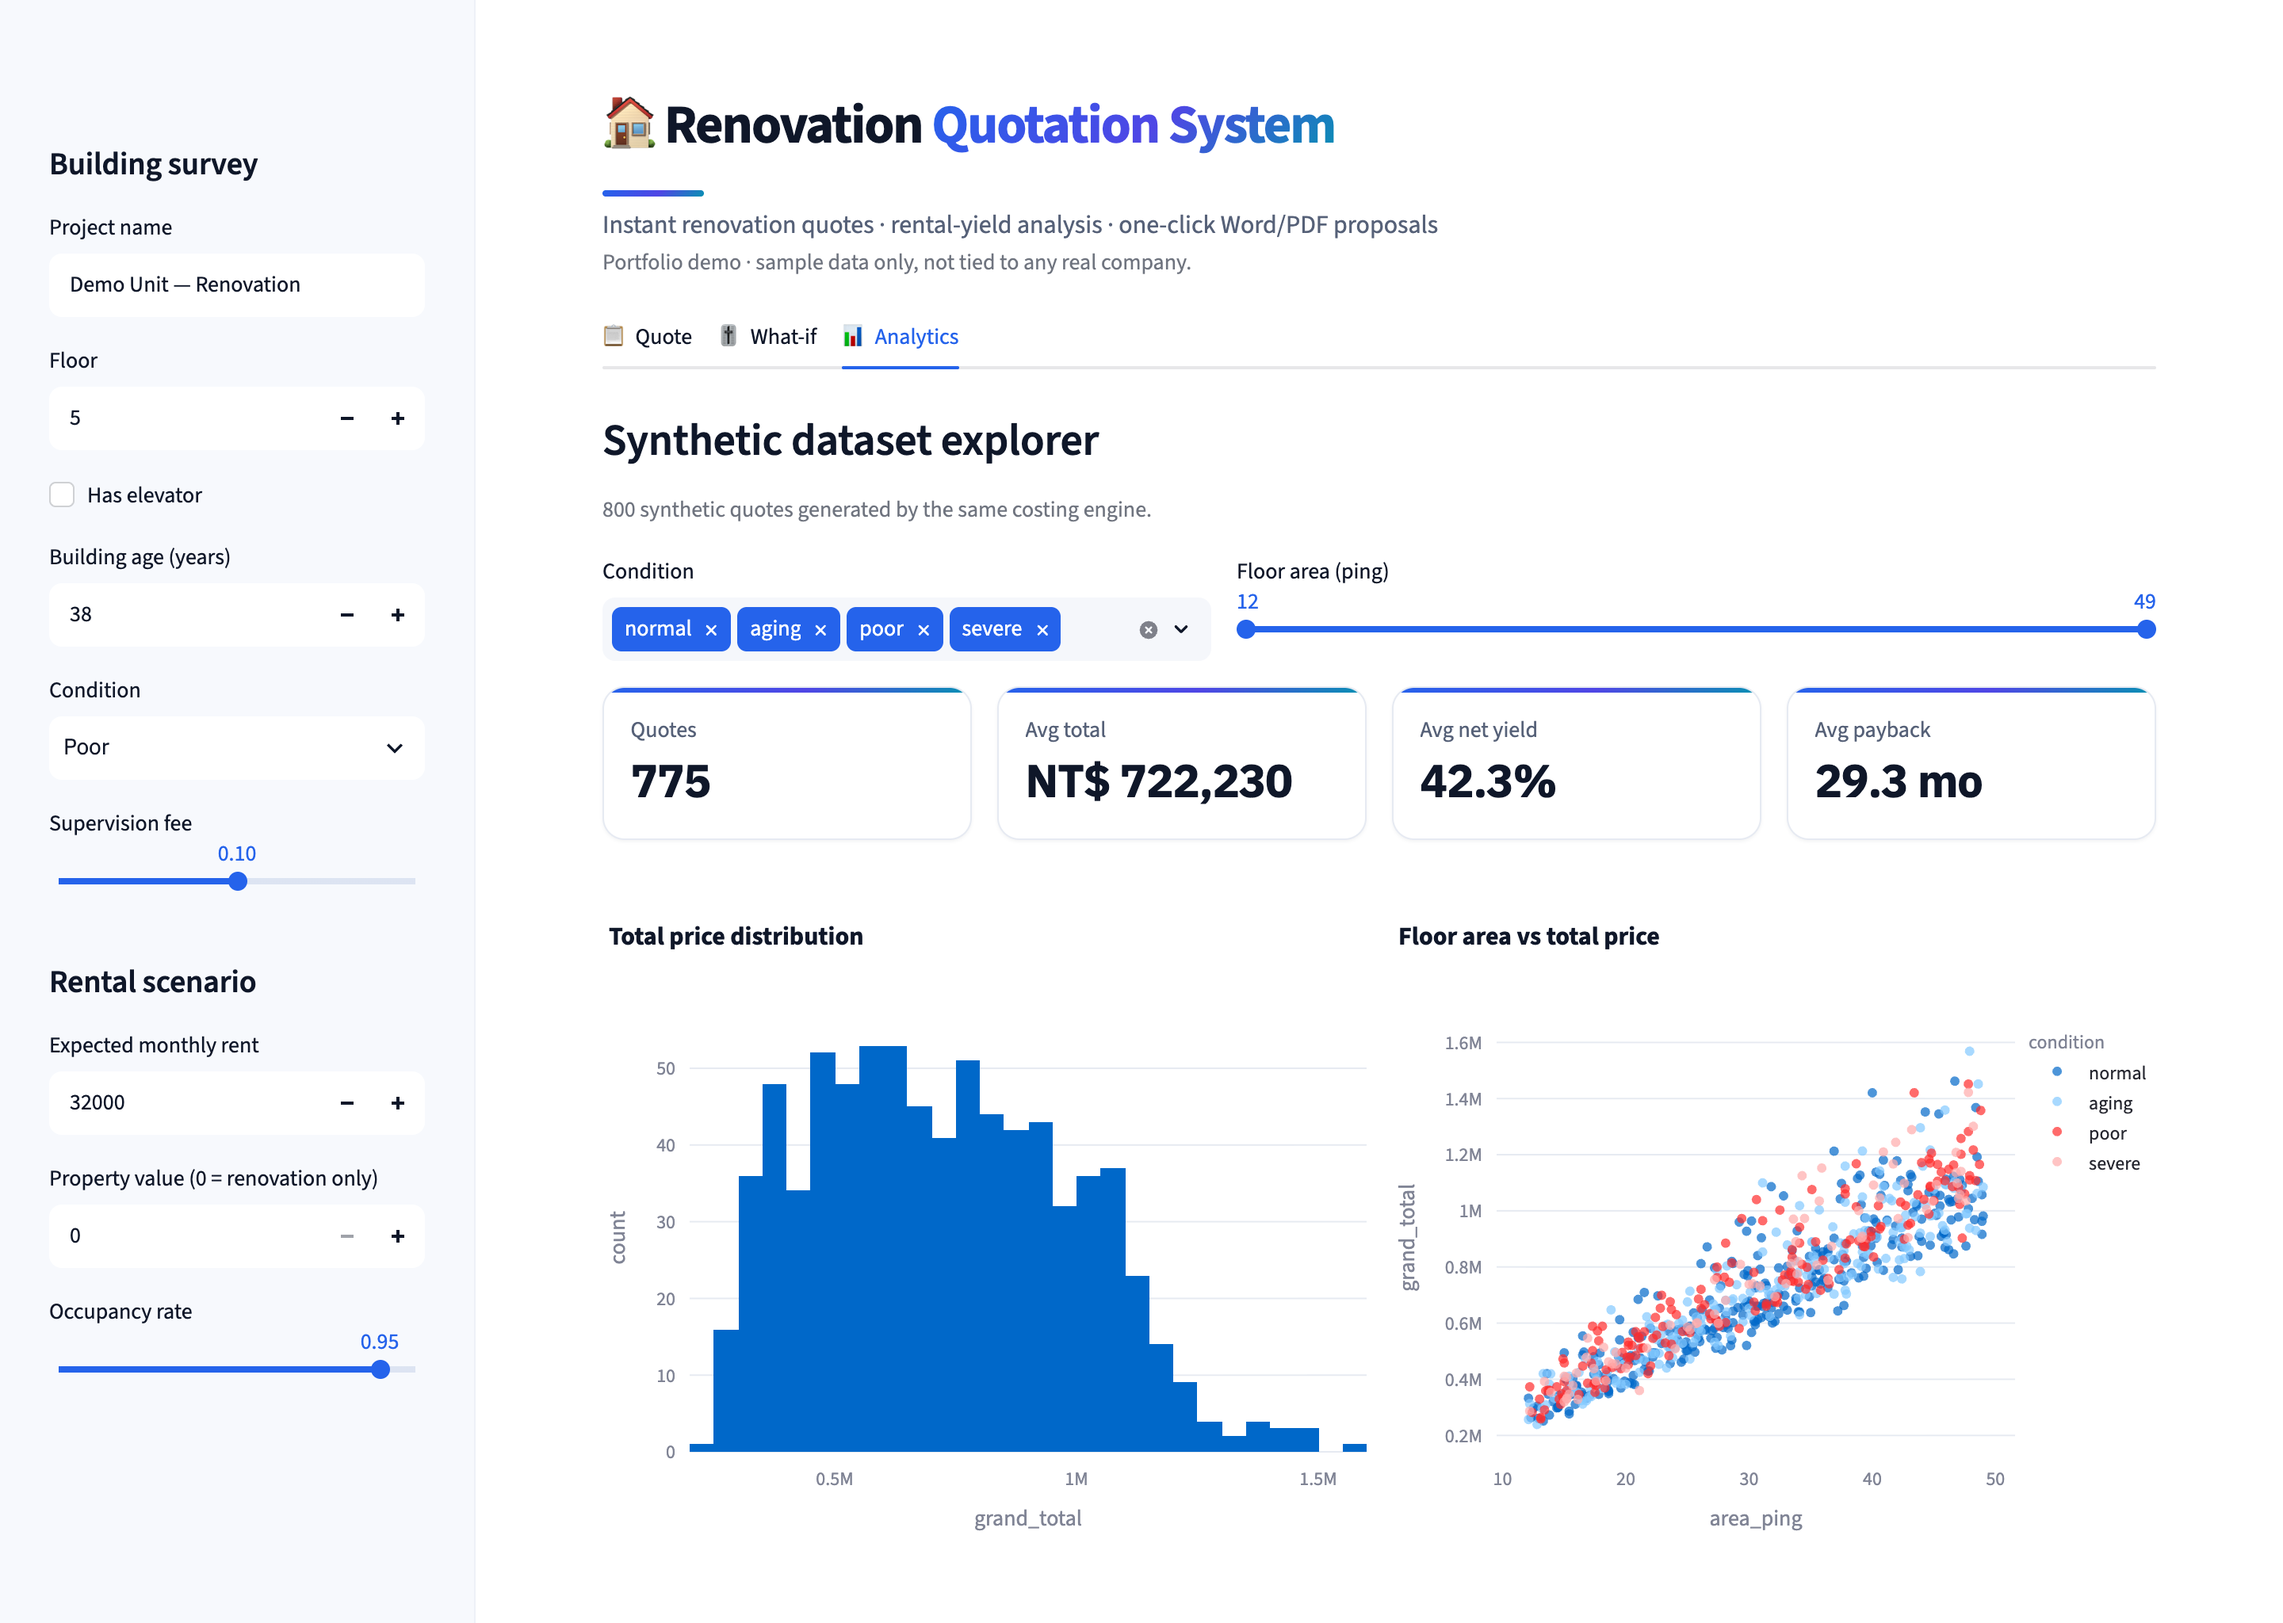
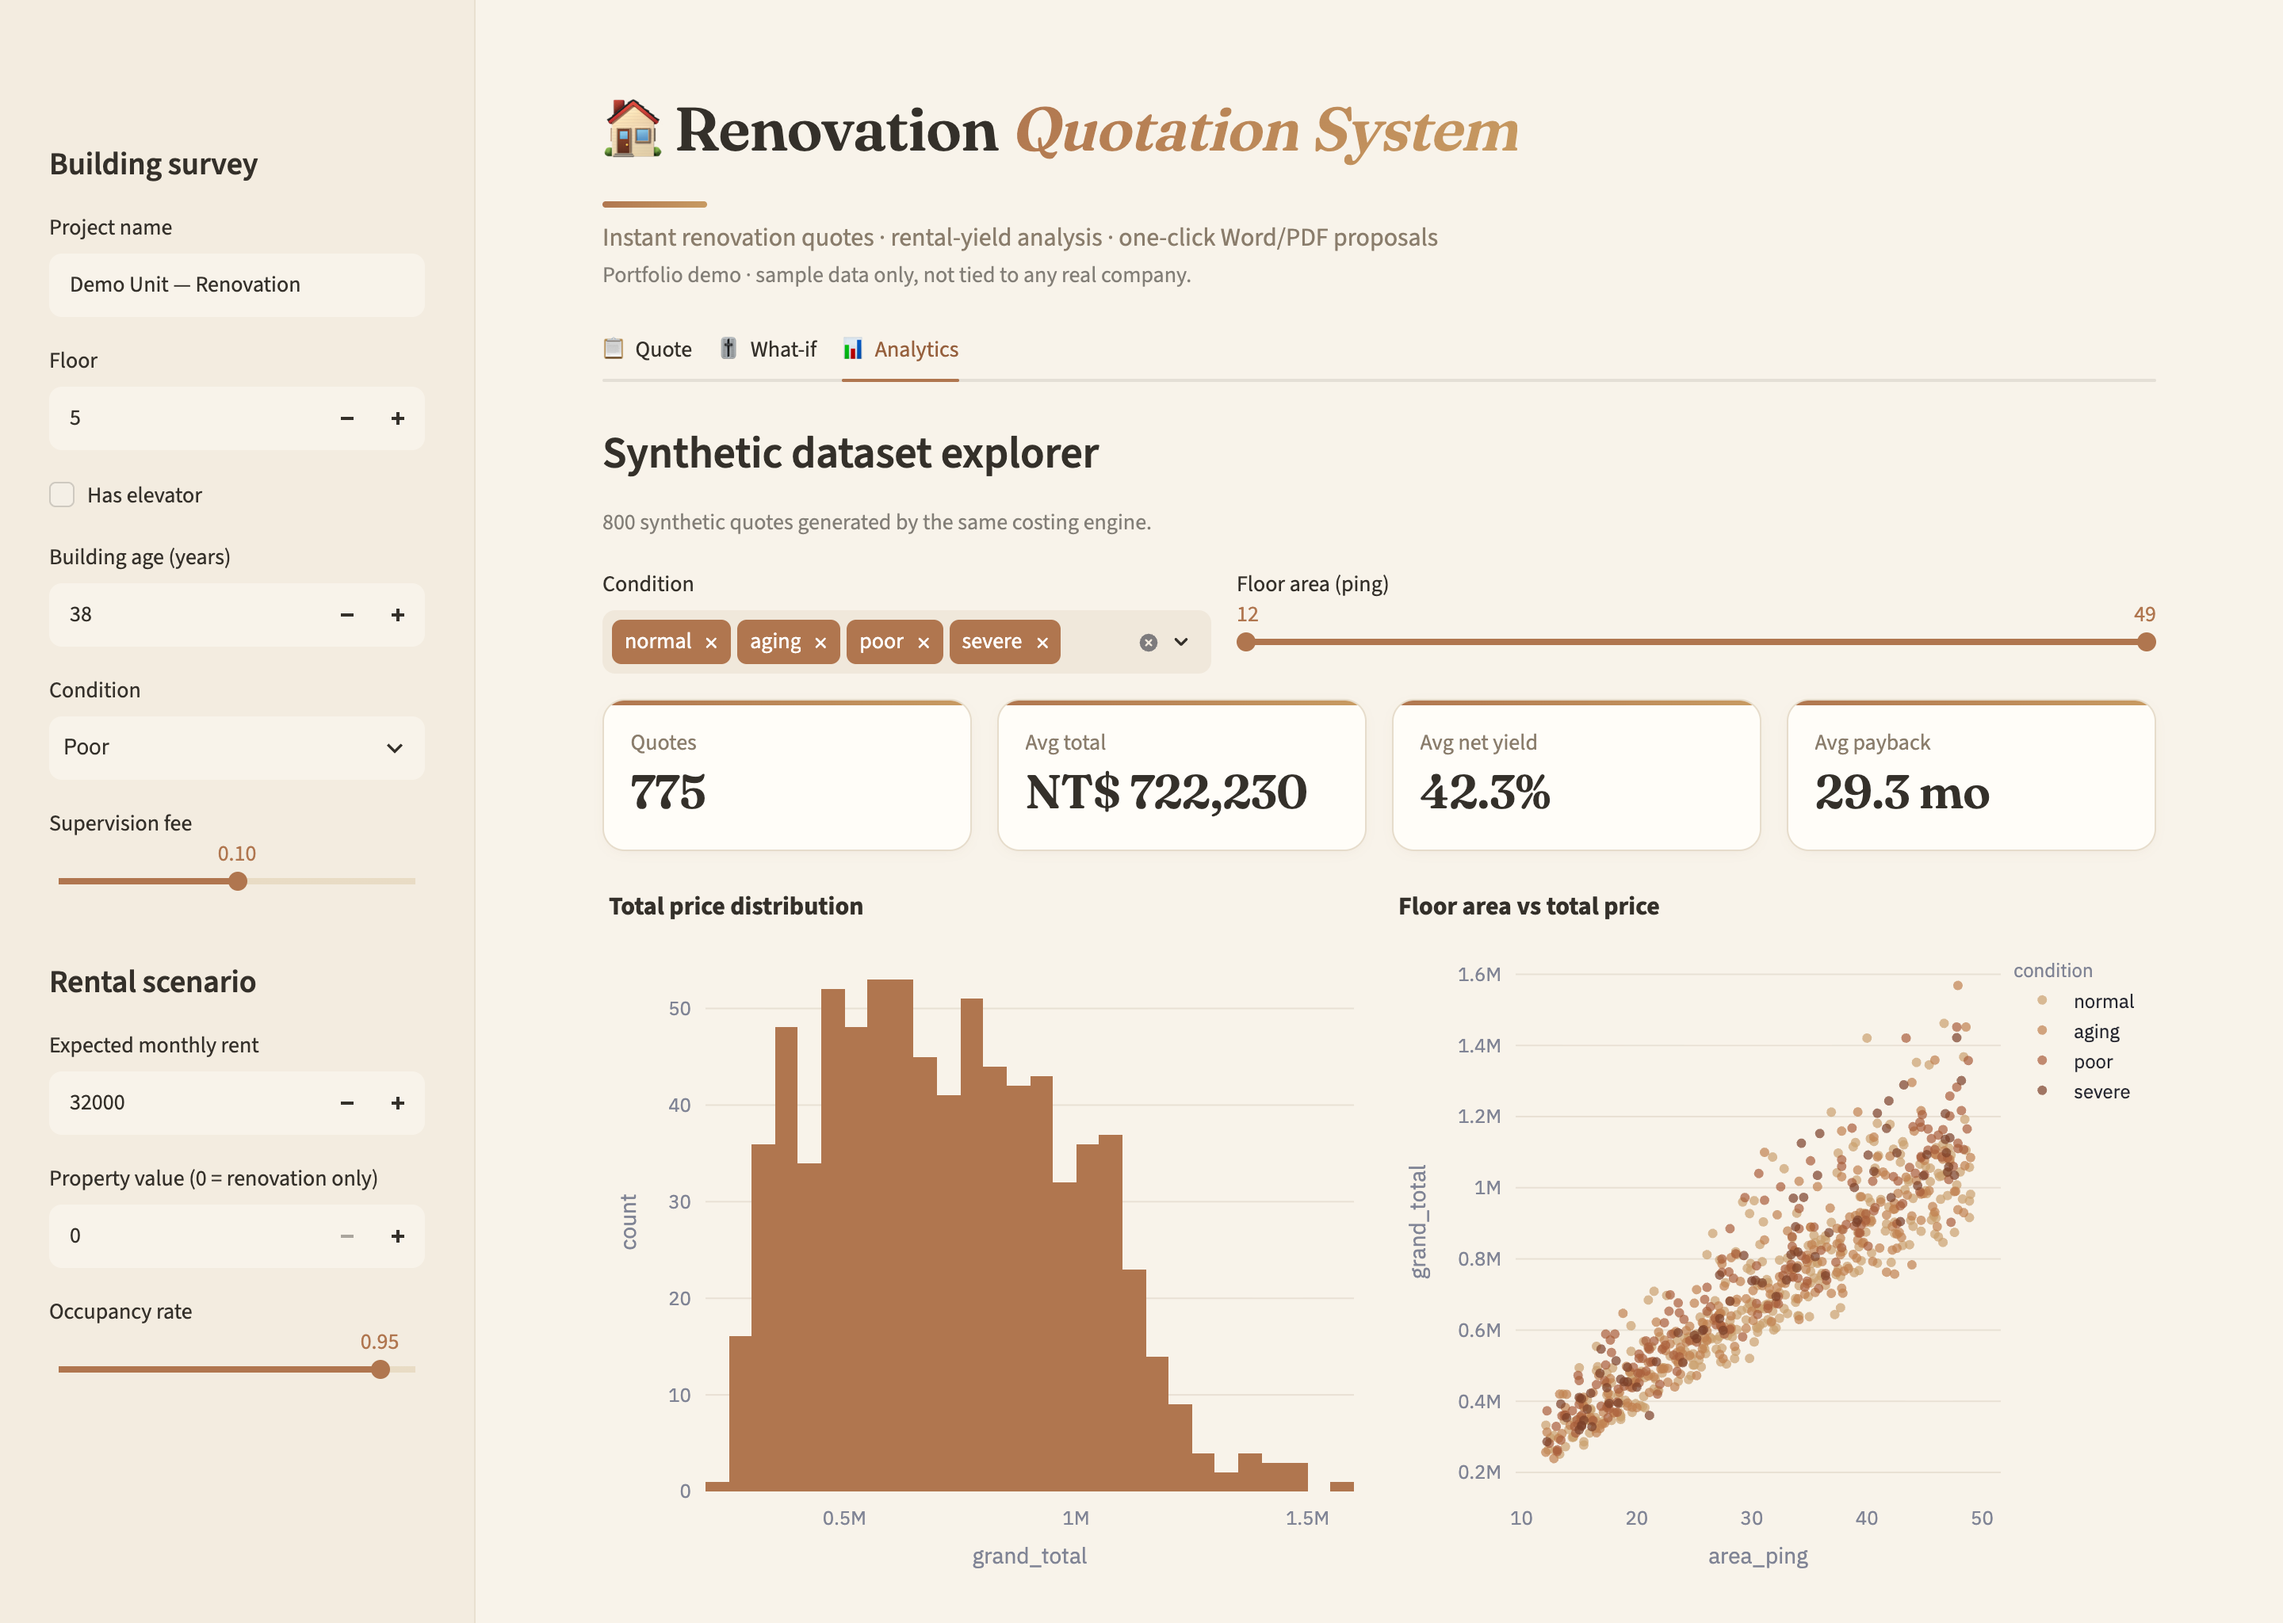
style: warm "renovation / interior" theme (muted-earth palette)
- switch app skin to cream + clay (霧感陶土) with Fraunces serif headings
  and serif metric numbers — premium quotation/contract feel
- warm .streamlit/config.toml (cream bg, clay primary)
- recolor all Plotly charts to the warm palette (clay lines/histogram/bars,
  earth-tone condition scatter, YlOrBr heatmap) with transparent backgrounds
- refresh README screenshots

diff --git a/app/streamlit_app.py b/app/streamlit_app.py
@@ -33,54 +33,57 @@ st.set_page_config(page_title="Renovation Quotation System", page_icon="🏠", l
 
 
 def _inject_css() -> None:
-    """A polished, professional skin on top of Streamlit's defaults."""
+    """A warm, premium "renovation / interior" skin (muted-earth palette)."""
     st.markdown(
         """
         <style>
-        @import url('https://fonts.googleapis.com/css2?family=IBM+Plex+Sans:wght@400;500;600;700&family=IBM+Plex+Mono:wght@500;600&display=swap');
+        @import url('https://fonts.googleapis.com/css2?family=Fraunces:opsz,wght@9..144,500;9..144,600;9..144,700&family=IBM+Plex+Sans:wght@400;500;600;700&family=IBM+Plex+Mono:wght@500&display=swap');
         :root {
-          --accent:#2563eb; --grad:linear-gradient(135deg,#2563eb 0%,#4f46e5 55%,#0891b2 100%);
-          --ink:#0f1729; --muted:#566178; --border:#e6eaf2;
+          --accent:#b0764f; --accent-strong:#96603d;
+          --grad:linear-gradient(135deg,#b0764f 0%,#c89b62 100%);
+          --ink:#34302a; --muted:#8a7d6c; --border:#e6dccb;
+          --surface:#fffdf8; --soft:#f1e7db;
+          --serif:'Fraunces',Georgia,'Times New Roman',serif;
+          --sans:'IBM Plex Sans',-apple-system,BlinkMacSystemFont,'Segoe UI',sans-serif;
         }
-        html, body, .stApp, [data-testid="stAppViewContainer"], [class*="css"] {
-          font-family:'IBM Plex Sans',-apple-system,BlinkMacSystemFont,'Segoe UI',sans-serif;
-        }
+        html, body, .stApp, [data-testid="stAppViewContainer"], [class*="css"] { font-family:var(--sans); color:var(--ink); }
+        /* serif for headings -> premium interior/contract feel */
+        h1, h2, h3, [data-testid="stHeading"] { font-family:var(--serif); letter-spacing:-.01em; color:var(--ink); }
         /* cleaner chrome */
         [data-testid="stToolbar"], [data-testid="stDecoration"] { display:none; }
         #MainMenu, footer { visibility:hidden; }
         [data-testid="stHeader"] { background:transparent; }
         .block-container { padding-top:2.2rem; padding-bottom:3rem; max-width:1180px; }
-        h1,h2,h3 { letter-spacing:-.02em; }
         /* hero */
-        .app-hero__title { font-weight:700; font-size:2.15rem; letter-spacing:-.03em; color:var(--ink); }
-        .app-hero__title .g { background:var(--grad); -webkit-background-clip:text; background-clip:text; color:transparent; }
-        .app-hero__rule { height:4px; width:64px; border-radius:3px; background:var(--grad); margin:.85rem 0 .35rem; }
+        .app-hero__title { font-family:var(--serif); font-weight:600; font-size:2.4rem; letter-spacing:-.01em; color:var(--ink); }
+        .app-hero__title .g { background:var(--grad); -webkit-background-clip:text; background-clip:text; color:transparent; font-style:italic; }
+        .app-hero__rule { height:4px; width:66px; border-radius:3px; background:var(--grad); margin:.9rem 0 .4rem; }
         .app-hero__sub { color:var(--muted); font-size:1rem; }
         /* metric cards */
         [data-testid="stMetric"] {
-          background:#fff; border:1px solid var(--border); border-radius:14px;
-          padding:.9rem 1.05rem; box-shadow:0 1px 2px rgba(16,24,40,.05);
+          background:var(--surface); border:1px solid var(--border); border-radius:14px;
+          padding:.9rem 1.05rem; box-shadow:0 2px 10px -6px rgba(120,80,40,.20);
           position:relative; overflow:hidden;
         }
         [data-testid="stMetric"]::before { content:""; position:absolute; top:0; left:0; right:0; height:3px; background:var(--grad); }
-        [data-testid="stMetricValue"] { font-weight:700; font-size:1.8rem; letter-spacing:-.02em; }
+        [data-testid="stMetricValue"] { font-family:var(--serif); font-weight:600; font-size:1.85rem; letter-spacing:-.01em; color:var(--ink); }
         [data-testid="stMetricValue"] > div { overflow:visible; }
-        [data-testid="stMetricLabel"] { color:var(--muted); }
+        [data-testid="stMetricLabel"] { color:var(--muted); font-family:var(--sans); }
         /* tabs */
         .stTabs [data-baseweb="tab-list"] { gap:6px; border-bottom:1px solid var(--border); }
-        .stTabs [data-baseweb="tab"] { font-weight:600; color:var(--muted); }
-        .stTabs [aria-selected="true"] { color:var(--accent); }
+        .stTabs [data-baseweb="tab"] { font-family:var(--sans); font-weight:600; color:var(--muted); }
+        .stTabs [aria-selected="true"] { color:var(--accent-strong); }
         .stTabs [data-baseweb="tab-highlight"] { background:var(--accent); }
         /* buttons */
         .stButton>button, .stDownloadButton>button {
           border-radius:10px; font-weight:600; border:1px solid var(--border); transition:all .15s ease;
         }
-        .stButton>button:hover, .stDownloadButton>button:hover { border-color:var(--accent); color:var(--accent); transform:translateY(-1px); }
+        .stButton>button:hover, .stDownloadButton>button:hover { border-color:var(--accent); color:var(--accent-strong); transform:translateY(-1px); }
         /* sidebar */
-        [data-testid="stSidebar"] { background:#f7f9fd; border-right:1px solid #eef1f7; }
+        [data-testid="stSidebar"] { background:#f3ece0; border-right:1px solid #e9e0d0; }
         /* expanders */
-        [data-testid="stExpander"] { border:1px solid var(--border); border-radius:12px; box-shadow:0 1px 2px rgba(16,24,40,.04); }
-        [data-testid="stExpander"] summary:hover { color:var(--accent); }
+        [data-testid="stExpander"] { border:1px solid var(--border); border-radius:12px; box-shadow:0 2px 8px -6px rgba(120,80,40,.16); }
+        [data-testid="stExpander"] summary:hover { color:var(--accent-strong); }
         </style>
         """,
         unsafe_allow_html=True,
@@ -90,6 +93,23 @@ def _inject_css() -> None:
 _inject_css()
 
 CONDITION_ORDER = ["normal", "aging", "poor", "severe"]
+
+# Warm "renovation" chart palette (matches the app skin).
+CLAY = "#b0764f"
+WARM_SEQ = ["#caa06e", "#c0804f", "#a85d3a", "#7a3f28"]  # normal -> severe (worse = deeper)
+
+
+def _style_fig(fig):
+    """Blend a Plotly figure into the warm cream theme."""
+    fig.update_layout(
+        paper_bgcolor="rgba(0,0,0,0)",
+        plot_bgcolor="rgba(0,0,0,0)",
+        font=dict(color="#34302a", family="IBM Plex Sans, sans-serif"),
+        margin=dict(t=48, l=8, r=8, b=8),
+    )
+    fig.update_xaxes(gridcolor="rgba(120,90,50,.12)", zeroline=False)
+    fig.update_yaxes(gridcolor="rgba(120,90,50,.12)", zeroline=False)
+    return fig
 
 
 def money(v: float) -> str:
@@ -280,28 +300,30 @@ with tab_whatif:
             x=occ_grid, y=pay_occ, markers=True,
             labels={"x": "Occupancy rate", "y": "Payback (months)"},
             title="Payback vs occupancy (at base rent)",
+            color_discrete_sequence=[CLAY],
         )
-        st.plotly_chart(fig_o, use_container_width=True)
+        st.plotly_chart(_style_fig(fig_o), use_container_width=True)
     with col_b:
         pay_rent = [payback_for(r, occupancy_rate) for r in rent_grid]
         fig_r = px.line(
             x=rent_grid, y=pay_rent, markers=True,
             labels={"x": "Monthly rent (TWD)", "y": "Payback (months)"},
             title="Payback vs rent (at base occupancy)",
+            color_discrete_sequence=[CLAY],
         )
-        st.plotly_chart(fig_r, use_container_width=True)
+        st.plotly_chart(_style_fig(fig_r), use_container_width=True)
 
     z = [[payback_for(r, o) for r in rent_grid] for o in occ_grid]
     fig_h = px.imshow(
         z, x=rent_grid, y=occ_grid, origin="lower", aspect="auto",
-        color_continuous_scale="RdYlGn_r",
+        color_continuous_scale="YlOrBr",
         labels={"x": "Monthly rent (TWD)", "y": "Occupancy rate", "color": "Payback (mo)"},
         title="Payback months across rent × occupancy",
     )
-    st.plotly_chart(fig_h, use_container_width=True)
+    st.plotly_chart(_style_fig(fig_h), use_container_width=True)
     st.caption(
-        "Greener = faster payback. A steeper gradient along an axis means the "
-        "investment case is more sensitive to that variable."
+        "Lighter = faster payback (darker = longer). A steeper gradient along an "
+        "axis means the investment case is more sensitive to that variable."
     )
 
 # =========================================================================
@@ -328,16 +350,18 @@ with tab_analytics:
     if len(d):
         g1, g2 = st.columns(2)
         with g1:
-            fig1 = px.histogram(d, x="grand_total", nbins=30, title="Total price distribution")
+            fig1 = px.histogram(d, x="grand_total", nbins=30, title="Total price distribution",
+                                color_discrete_sequence=[CLAY])
             fig1.update_layout(showlegend=False)
-            st.plotly_chart(fig1, use_container_width=True)
+            st.plotly_chart(_style_fig(fig1), use_container_width=True)
         with g2:
             fig2 = px.scatter(
                 d, x="area_ping", y="grand_total", color="condition",
                 category_orders={"condition": CONDITION_ORDER}, opacity=0.7,
+                color_discrete_sequence=WARM_SEQ,
                 title="Floor area vs total price",
             )
-            st.plotly_chart(fig2, use_container_width=True)
+            st.plotly_chart(_style_fig(fig2), use_container_width=True)
 
         cost_cols = [c for c in df.columns if c.startswith("cost_")]
         means = d[cost_cols].mean().sort_values()
@@ -346,8 +370,9 @@ with tab_analytics:
             means, orientation="h",
             labels={"value": "Mean cost (TWD)", "index": "Category"},
             title="Average cost by trade category",
+            color_discrete_sequence=[CLAY],
         )
         fig3.update_layout(showlegend=False)
-        st.plotly_chart(fig3, use_container_width=True)
+        st.plotly_chart(_style_fig(fig3), use_container_width=True)
     else:
         st.info("No quotes match the current filters.")
